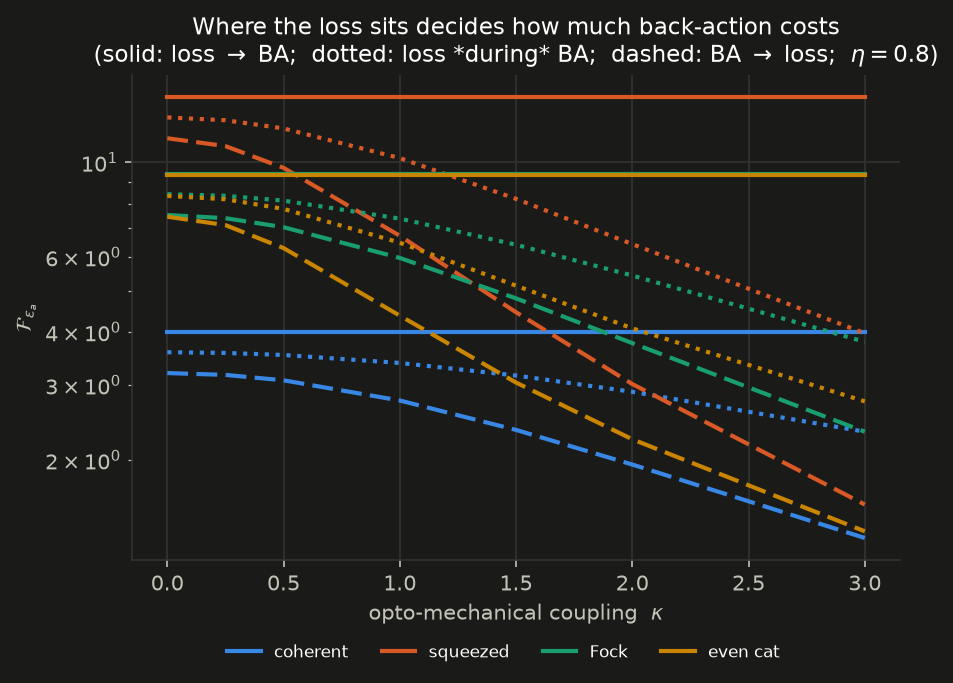
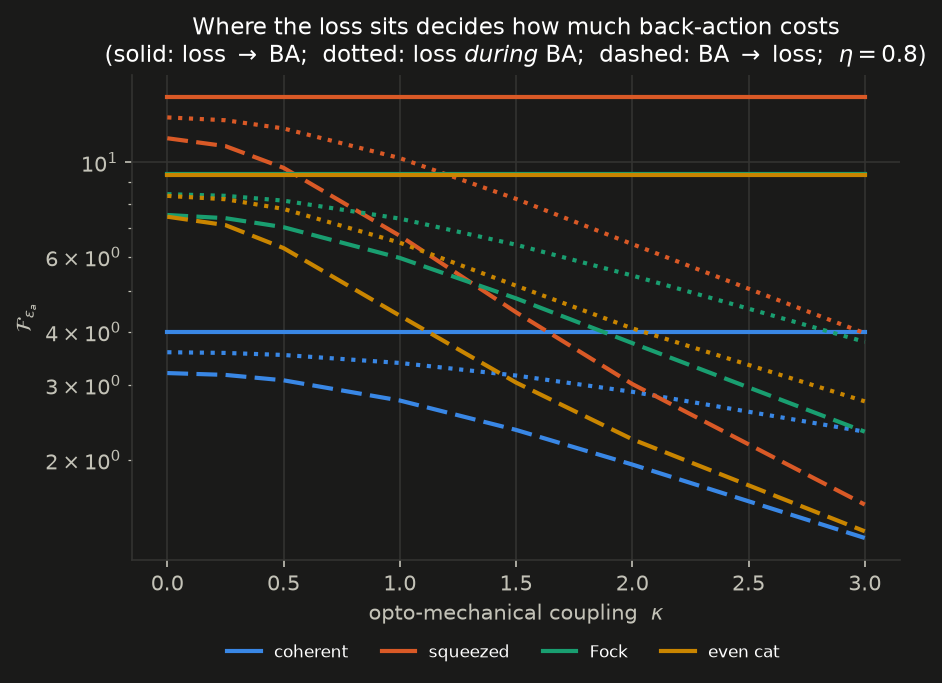
Fix a figure title and a stale convergence count
The loss-placement figure title carried literal asterisks around "during":
matplotlib has no markdown emphasis, so it rendered as *during*.  Uses the same
mathtext italics as the concurrent-orderings figure.

The Method section still said one unconverged point of ~500, written before the
concurrent-loss run added three more.  It is four of 491, as the Caveats section
already says.

Claude-Session: https://claude.ai/code/session_01APUYjnBPWQxa8QLvKTpwdz

diff --git a/backaction-qfi/make_figures.py b/backaction-qfi/make_figures.py
@@ -115,7 +115,7 @@ def fig_loss_placement(d, out):
             ax.set_xlabel(r"opto-mechanical coupling  $\kappa$")
             ax.set_ylabel(r"$\mathcal{F}_{\epsilon_a}$")
             ax.set_title("Where the loss sits decides how much back-action costs\n"
-                         "(solid: loss $\\to$ BA;  dotted: loss *during* BA;  "
+                         "(solid: loss $\\to$ BA;  dotted: loss $\\it{during}$ BA;  "
                          "dashed: BA $\\to$ loss;  $\\eta=0.8$)")
             legend_below(fig, ax, ncol=4)
             finish(fig, str(out / "fig2_loss_placement"), name)

diff --git a/backaction-qfi/README.md b/backaction-qfi/README.md
@@ -89,8 +89,8 @@ shear demands.
 **Every number below went through the cutoff convergence check.** This matters
 more than it sounds: at the default `N_basis = 20`, the QFI is wrong by
 **202 %** for an even cat at ⟨n⟩ = 4 (κ = 1.5, η = 0.9), and by 95 % for
-squeezed vacuum. The `converged` column in every CSV flags the single point
-(of ~500) that did not converge.
+squeezed vacuum. The `converged` column in every CSV flags the four points
+(of 491) that did not converge; see Caveats.
 
 ---
 
